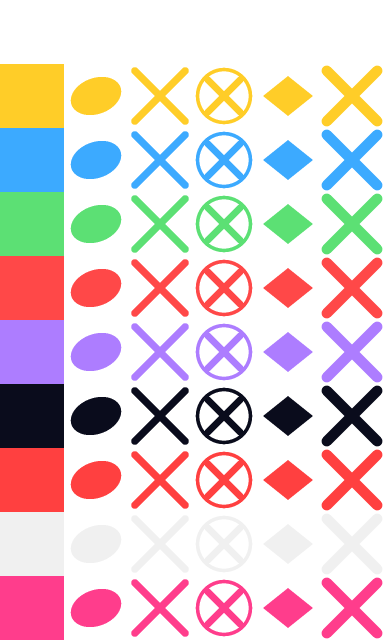
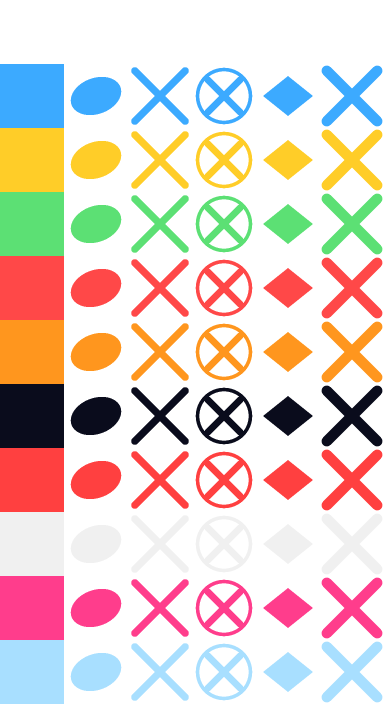
Notation view: final palette, one hue per instrument
Replaces the limb-based colouring: hi-hat closed/open and the hat foot
blue (60,170,255), snare yellow (255,205,40), hi tom green, lo tom red,
floor tom orange (255,150,30), crash magenta, kick and left bass drum
white, ride pale cyan (168,223,255) so it reads apart from both the blue
hat and the yellow snare. Constants are named after the instrument now,
labels and hit flashes come from the same table, and the sprite sheet
rows follow.

Claude-Session: https://claude.ai/code/session_01WKgs6DwHtoEQb9UfLX31gJ

diff --git a/DTXMania/Code/Stage/07.Performance/DrumsScreen/CActPerfDrumsNotation.cs b/DTXMania/Code/Stage/07.Performance/DrumsScreen/CActPerfDrumsNotation.cs
@@ -138,27 +138,26 @@ namespace DTXMania
         private const int POS_MIN = -1;             // lowest staff position any voice uses (left pedal)
         private const int POS_MAX = 12;             // highest (left crash on its second ledger line)
 
-        // Sprite sheet: 6 shape columns x 8 colour rows of 64x64 cells.
+        // Sprite sheet: 6 shape columns x 11 colour rows of 64x64 cells.
         private const int CELL = 64;
         private const int SHAPE_SOLID = 0, SHAPE_HEAD = 1, SHAPE_X = 2, SHAPE_CIRCLE_X = 3, SHAPE_DIAMOND = 4,
                           SHAPE_BOLD_X = 5;
         // ----------------------------------------------------------------- //
-        //  Palette: notes are coloured by LIMB, the way Melodics does it, not //
-        //  by instrument. The row and the notehead shape say which drum it is;//
-        //  the colour says which hand or foot plays it. Toms whose sticking   //
-        //  alternate keep their own hues so they stay easy to tell apart.     //
+        //  Palette: one hue per instrument, so a glance at the colour names   //
+        //  the drum even before the row and the notehead shape do. The staff  //
+        //  furniture (lines, ledgers, stems, beams) stays plain white.        //
         // ----------------------------------------------------------------- //
         private const int C_WHITE = 0,      // staff lines, ledger lines, stems, beams
-                          C_RIGHT = 1,      // 255,205,40  right hand / right foot
-                          C_LEFT  = 2,      // 60,170,255  left hand / left foot
-                          C_GREEN = 3,      // 92,224,116  hi tom
-                          C_RED   = 4,      // 255,72,72   lo tom
-                          C_PURPLE = 5,     // 173,125,255 floor tom
+                          C_HAT   = 1,      // 60,170,255  hi-hat closed and open, and the hat foot
+                          C_SNARE = 2,      // 255,205,40  snare
+                          C_HITOM = 3,      // 92,224,116  hi tom
+                          C_LOTOM = 4,      // 255,72,72   lo tom
+                          C_FLOOR = 5,      // 255,150,30  floor tom
                           C_DARK  = 6,      // band background
                           C_PLAYHEAD = 7,
                           C_KICK  = 8,      // 240,240,240 kick and left bass drum
-                          C_CRASH = 9;      // 255,61,140  crash: both crashes share one row, so this is the
-                                            //   deliberate exception to the limb rule
+                          C_CRASH = 9,      // 255,61,140  crash: both crashes share one row
+                          C_RIDE  = 10;     // 168,223,255 ride
 
         private CTexture tx;
 
@@ -212,23 +211,22 @@ namespace DTXMania
 
         // Standard drum-set notation on a percussion staff. The staff position and the notehead
         // shape name the instrument (x = hi-hat, circled x = open hi-hat, diamond = ride, bold x =
-        // crash, ellipse = drum); the colour names the limb that plays it.
+        // crash, ellipse = drum), and so does the colour.
         private static readonly Dictionary<EChannel, STNote> mapNotes = new Dictionary<EChannel, STNote>
         {
-            { EChannel.HiHatClose,   new STNote( 9, SHAPE_X,        C_RIGHT, true ) },
-            { EChannel.HiHatOpen,    new STNote( 9, SHAPE_CIRCLE_X, C_RIGHT, true ) },
-            { EChannel.RideCymbal,   new STNote( 8, SHAPE_DIAMOND,  C_RIGHT, true ) },
-            { EChannel.Cymbal,       new STNote(10, SHAPE_BOLD_X,   C_CRASH, true ) },
-            { EChannel.FloorTom,     new STNote( 3, SHAPE_HEAD,     C_PURPLE,true ) },
-            { EChannel.BassDrum,     new STNote( 1, SHAPE_HEAD,     C_KICK,  false) },
-            { EChannel.Snare,        new STNote( 5, SHAPE_HEAD,     C_LEFT,  true ) },
-            { EChannel.LeftCymbal,   new STNote(10, SHAPE_BOLD_X,   C_CRASH, true ) },   // one crash row, like Melodics
-            { EChannel.LeftPedal,    new STNote(-1, SHAPE_X,        C_LEFT,  false) },
-            { EChannel.LeftBassDrum, new STNote( 1, SHAPE_HEAD,     C_KICK,  false) },
-            { EChannel.HighTom,      new STNote( 7, SHAPE_HEAD,     C_GREEN, true ) },
-            { EChannel.LowTom,       new STNote( 6, SHAPE_HEAD,     C_RED,   true ) },
+            { EChannel.HiHatClose,   new STNote( 9, SHAPE_X,        C_HAT   , true ) },
+            { EChannel.HiHatOpen,    new STNote( 9, SHAPE_CIRCLE_X, C_HAT   , true ) },
+            { EChannel.LeftPedal,    new STNote(-1, SHAPE_X,        C_HAT   , false) },
+            { EChannel.RideCymbal,   new STNote( 8, SHAPE_DIAMOND,  C_RIDE  , true ) },
+            { EChannel.Cymbal,       new STNote(10, SHAPE_BOLD_X,   C_CRASH , true ) },
+            { EChannel.LeftCymbal,   new STNote(10, SHAPE_BOLD_X,   C_CRASH , true ) },   // one crash row, like Melodics
+            { EChannel.Snare,        new STNote( 5, SHAPE_HEAD,     C_SNARE , true ) },
+            { EChannel.HighTom,      new STNote( 7, SHAPE_HEAD,     C_HITOM , true ) },
+            { EChannel.LowTom,       new STNote( 6, SHAPE_HEAD,     C_LOTOM , true ) },
+            { EChannel.FloorTom,     new STNote( 3, SHAPE_HEAD,     C_FLOOR , true ) },
+            { EChannel.BassDrum,     new STNote( 1, SHAPE_HEAD,     C_KICK  , false) },
+            { EChannel.LeftBassDrum, new STNote( 1, SHAPE_HEAD,     C_KICK  , false) },
         };
-
         /// <summary>One entry of the legend down the left edge, indexed by ELane (0..9).</summary>
         private struct STLaneLabel
         {
@@ -241,18 +239,17 @@ namespace DTXMania
         // Indexed exactly like CStagePerfCommonScreen.nチャンネル0Atoレーン07 / ELane.
         private static readonly STLaneLabel[] stLaneLabels = new STLaneLabel[]
         {
-            new STLaneLabel(10, C_CRASH, ""       ),        // merged into the CRASH row below        // 0  LC
-            new STLaneLabel( 9, C_RIGHT, "HI-HAT" ),        // 1  HH (and open hi-hat)
-            new STLaneLabel( 5, C_LEFT,  "SNARE"  ),        // 2  SD
+            new STLaneLabel(10, C_CRASH, ""       ),        // 0  LC, merged into the CRASH row
+            new STLaneLabel( 9, C_HAT,   "HI-HAT" ),        // 1  HH (and open hi-hat)
+            new STLaneLabel( 5, C_SNARE, "SNARE"  ),        // 2  SD
             new STLaneLabel( 1, C_KICK,  "KICK"   ),        // 3  BD
-            new STLaneLabel( 7, C_GREEN, "HI TOM" ),        // 4  HT
-            new STLaneLabel( 6, C_RED,   "LO TOM" ),        // 5  LT
-            new STLaneLabel( 3, C_PURPLE,"FLOOR"  ),        // 6  FT
+            new STLaneLabel( 7, C_HITOM, "HI TOM" ),        // 4  HT
+            new STLaneLabel( 6, C_LOTOM, "LO TOM" ),        // 5  LT
+            new STLaneLabel( 3, C_FLOOR, "FLOOR"  ),        // 6  FT
             new STLaneLabel(10, C_CRASH, "CRASH"  ),        // 7  CY
-            new STLaneLabel(-1, C_LEFT,  "L.PEDAL"),        // 8  LP (and left bass drum)
-            new STLaneLabel( 8, C_RIGHT, "RIDE"   ),        // 9  RD
+            new STLaneLabel(-1, C_HAT,   "L.PEDAL"),        // 8  LP (and left bass drum)
+            new STLaneLabel( 8, C_RIDE,  "RIDE"   ),        // 9  RD
         };
-
         /// <summary>A chip the stage has handed us this frame, ready to be laid out.</summary>
         private struct STPendingNote
         {
@@ -354,14 +351,15 @@ namespace DTXMania
         {
             switch (nColour)
             {
-                case C_RIGHT:  return Color.FromArgb(255, 205,  40);
-                case C_LEFT:   return Color.FromArgb( 60, 170, 255);
-                case C_GREEN:  return Color.FromArgb( 92, 224, 116);
-                case C_RED:    return Color.FromArgb(255,  72,  72);
-                case C_PURPLE: return Color.FromArgb(173, 125, 255);
-                case C_KICK:   return Color.FromArgb(240, 240, 240);
-                case C_CRASH:  return Color.FromArgb(255,  61, 140);
-                default:       return Color.White;
+                case C_HAT:   return Color.FromArgb( 60, 170, 255);
+                case C_SNARE: return Color.FromArgb(255, 205,  40);
+                case C_HITOM: return Color.FromArgb( 92, 224, 116);
+                case C_LOTOM: return Color.FromArgb(255,  72,  72);
+                case C_FLOOR: return Color.FromArgb(255, 150,  30);
+                case C_KICK:  return Color.FromArgb(240, 240, 240);
+                case C_CRASH: return Color.FromArgb(255,  61, 140);
+                case C_RIDE:  return Color.FromArgb(168, 223, 255);
+                default:      return Color.White;
             }
         }
 
